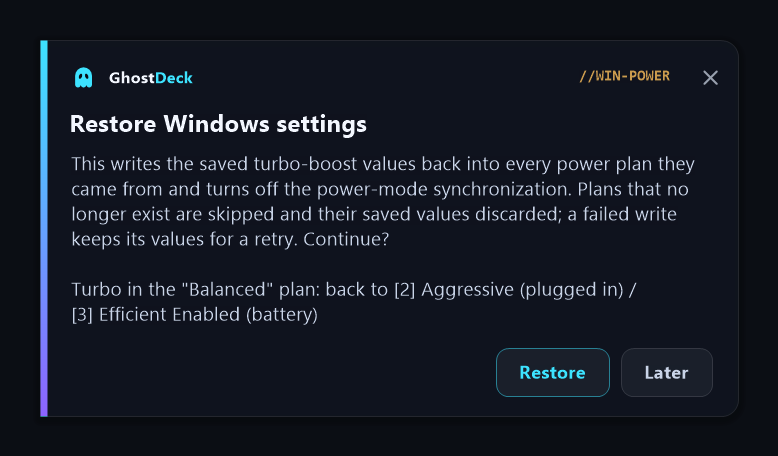
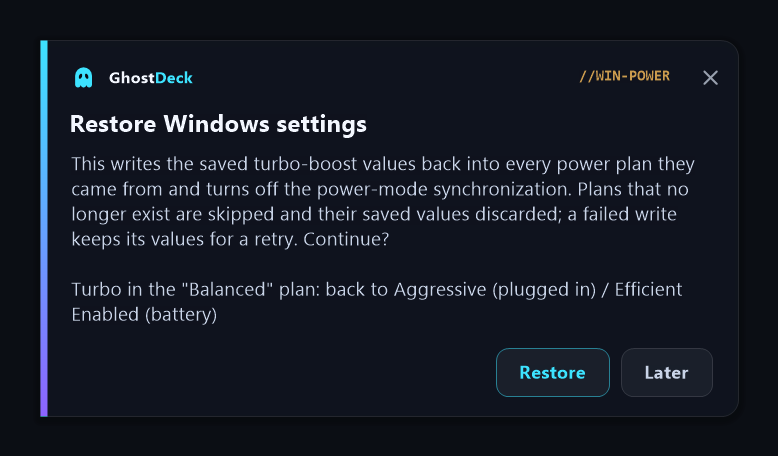
Docs: Windows power guide, TECHNICAL, CHANGELOG and screenshots with mode names alone (#117)

Changed region(s): [[0.4936, 0.614, 0.8946, 0.6754], [0.0925, 0.6754, 0.401, 0.7061]]

diff --git a/docs/WINDOWS-POWER.md b/docs/WINDOWS-POWER.md
@@ -11,7 +11,7 @@
   what was there before and **Restore Windows settings** puts it back.
 - Every turbo mode carries an **icon for what it really does**. Seven names, a few behaviours.
 - **Only the GhostDeck profile changes the watt limit.** The sure ways to less power are the
-  Silent profile or turbo set to **[0] Disabled**.
+  Silent profile or turbo set to **Disabled**.
 
 ![The Windows power card](images/windows_power.png)
 
@@ -32,10 +32,9 @@
 | Footer link | Shows or hides the turbo setting in the Windows power options. |
 | **?** next to CPU turbo boost | Opens the help card: everything on this page in short, with a table of the modes your Windows offers. |
 
-**The number in square brackets.** A mode is written as **[2] Aggressive** everywhere on the
-card, in the lists, in *By profile* and in the editor. The number is the one under which Windows
-stores the mode in the power plan; the name comes from Windows, in your Windows language.
-Long names wrap onto a second line instead of being cut.
+**Mode names.** The card shows each mode by the name Windows gives it, in your Windows
+language. Long names wrap onto a second line instead of being cut. The number under which
+Windows stores a mode in the power plan is in the *Value* column of the help card's table.
 
 ## The turbo switch
 
@@ -43,7 +42,7 @@ With turbo **off**, the processor stays at its base clock. The laptop runs notic
 and quieter under load, and is slower at peak. Together with the Silent profile, it is the one
 setting that reliably lowers power draw.
 
-- **Off** writes **[0] Disabled** for both power sources. Before that, GhostDeck saves the modes
+- **Off** writes **Disabled** for both power sources. Before that, GhostDeck saves the modes
   the plan had, and shows them under *Technical details → Saved*.
 - **On** writes the saved modes back. If nothing was saved (turbo was switched off outside
   GhostDeck), it uses an enabled mode Windows offers.
@@ -67,7 +66,7 @@ covers both ("Both sources: ...").
 ![The turbo mode list, open](images/windows_power_list.png)
 
 **Picking a mode while turbo is off** turns turbo on for that power source. Picking
-**[0] Disabled** in one list switches turbo off for that source only (for example: off on
+**Disabled** in one list switches turbo off for that source only (for example: off on
 battery, full speed plugged in). The switch then stays on, and the line under it says exactly
 which mode each source uses.
 
@@ -77,9 +76,9 @@ On a typical Windows 11 laptop:
 |---|---|---|
 | 0 | Disabled | The processor stays at its base clock. Cooler and quieter, clearly slower. Besides Silent, the only mode that surely lowers power. |
 | 1 | Enabled | The processor speeds up when it has work. Windows decides how much. |
-| 2 | Aggressive | Speeds up whenever it can. On processors that manage their own clock, Microsoft says it works like *[1] Enabled*. |
-| 3 | Efficient Enabled | Microsoft says it works like *[1] Enabled*. The name suggests saving energy, but the documentation does not confirm it. |
-| 4 | Efficient Aggressive | Microsoft says it works like *[2] Aggressive*. |
+| 2 | Aggressive | Speeds up whenever it can. On processors that manage their own clock, Microsoft says it works like *Enabled*. |
+| 3 | Efficient Enabled | Microsoft says it works like *Enabled*. The name suggests saving energy, but the documentation does not confirm it. |
+| 4 | Efficient Aggressive | Microsoft says it works like *Aggressive*. |
 | 5 | Aggressive At Guaranteed | Windows works out how much extra speed above the processor's guaranteed level is needed and asks for exactly that. |
 | 6 | Efficient Aggressive At Guaranteed | Windows always asks for the highest speed above the processor's guaranteed level. |
 
@@ -92,8 +91,8 @@ for more than it. A mode Windows lists that GhostDeck does not know is shown as 
 
 **Autonomous mode.** Windows has a second hidden setting, *Processor performance autonomous mode*
 (PERFAUTONOMOUS). When it is on, Windows lets the processor pick its own clock, and Microsoft's
-table then gives modes 1 to 4 the same behaviour as *[1] Enabled*: the real difference comes
-from *[0] Disabled*. GhostDeck only reads this setting. When the active plan has it on for both
+table then gives modes 1 to 4 the same behaviour as *Enabled*: the real difference comes
+from *Disabled*. GhostDeck only reads this setting. When the active plan has it on for both
 power sources, the icons and the help card say so, and the test reports record it. Microsoft
 notes that the platform may ignore the setting, so GhostDeck reports what Windows has switched
 on, not what the processor does.

diff --git a/docs/TECHNICAL.md b/docs/TECHNICAL.md
@@ -3012,7 +3012,7 @@ time with the same 529 system windows; a card Sync costs about 1 ms on both once
 remembers its text heights (without that it was 3 ms); a click in the By profile editor repaints once
 in about 15 ms against 9 ms on main, because the card is taller and carries more chips.
 
-**No text cut, the number in brackets (#117, fourth round, owner test on 1.40.99).** Nothing in
+**No text cut (#117, fourth and fifth rounds, owner test on 1.40.99).** Nothing in
 this feature ends in "..." any more. `WinPowerBody` lost its one-line ellipsis format: every label,
 table header, details cell and By profile cell wraps through one `Cell` helper and its row grows
 (header rows measure their longest caption, `ThH`). `ThemedComboBox` has a new opt-in
@@ -3021,12 +3021,10 @@ wraps and the field grows (`FieldHeightFor(width)`, remembered per text, width a
 card's turbo lists use it, and the open list stays one line per row because `DropDownWidth` is
 measured to the longest label. `PowerMapForm` wraps its labels, its profile tabs and any chip
 wider than the card (a full-width chip that grows), and `WinPowerHelpForm` wraps its tabs.
-A mode is written everywhere in the UI as `PowerPlan.BoostLabel(value)`: "[2] Aggressive", the
-number Windows stores in the plan in square brackets before the Windows name, joined by a no-break
-space so the number never ends a line alone; the number has the colour of the name (one text, so
-it wraps like one). The card's change-log lines use the same format (`TurboLabels`); the CLI and
-the test reports keep "2 (Aggressive)". The help card says what the number is under its table of
-modes. Its text is now a step above the Settings cards (14.5 px body, 14 px table, 16.5 px
+The UI shows a mode by its Windows name alone (`BoostName`): the card, the lists, By profile, the editor, the restore card and the
+change log (`TurboLabels`, "Aggressive / Efficient Enabled"). The number Windows stores appears
+only in the *Value* column of the help card's table, with one sentence under it saying what it
+is; the CLI and the test reports keep "2 (Aggressive)". Its text is now a step above the Settings cards (14.5 px body, 14 px table, 16.5 px
 headings, 14.5 px tabs and buttons through the new `GhostCardForm.ButtonFontPx`), and the icon
 legend moved to a page of its own, so the tallest page (the table) still fits a 1080p screen at
 125 % (about 890 px). The harness stress set `BOOSTNAMES=long` (very long names, `FAKEMODES` for

diff --git a/CHANGELOG.md b/CHANGELOG.md
@@ -17,8 +17,7 @@ Format loosely based on [Keep a Changelog](https://keepachangelog.com/).
   it lowers power), and says when Windows has autonomous mode on, where Microsoft gives most modes
   the same behaviour. Every mode carries an icon and colour for what it really does (less
   power, turbo, max turbo, asks for more), in the lists, the By profile table, the editor and the
-  help card, which explains them in a legend. Each mode shows the number Windows stores for it,
-  as in **[2] Aggressive**, and long names wrap instead of being cut. Guide:
+  help card, which explains them in a legend. Long mode names wrap instead of being cut. Guide:
   [docs/WINDOWS-POWER.md](docs/WINDOWS-POWER.md).
 - **Models tab in five sub-tabs** - **Start** (your laptop and what works on it, or a "not in the
   database yet" card with *Report my model*; the database in numbers; a growth chart of recognised
